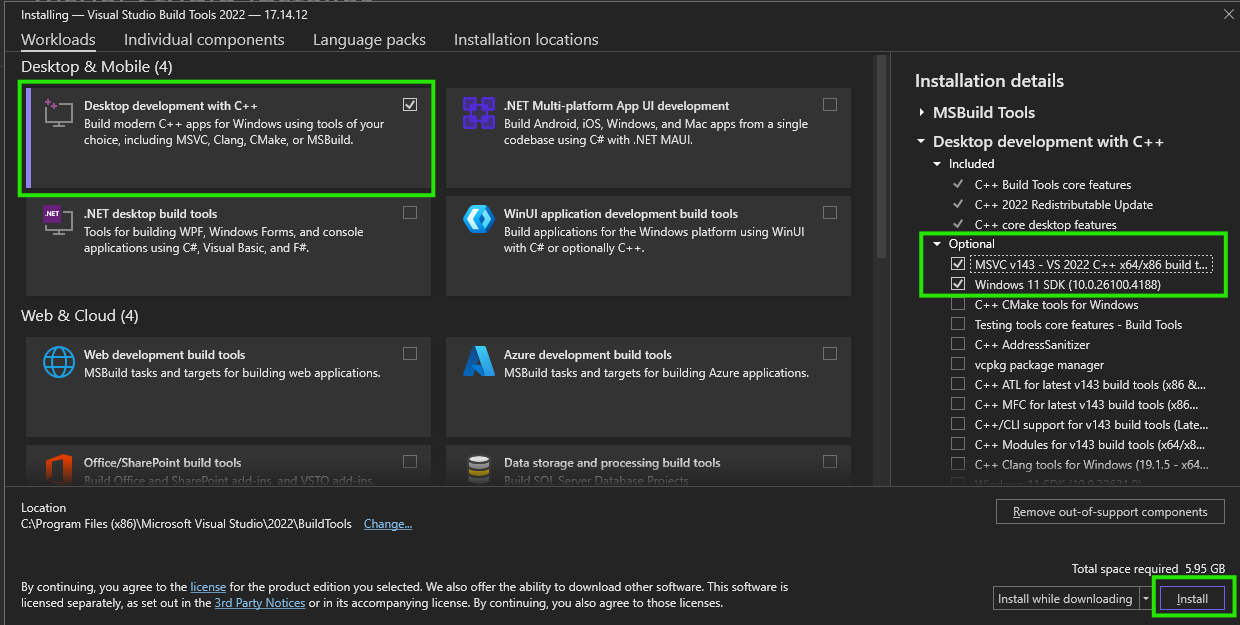
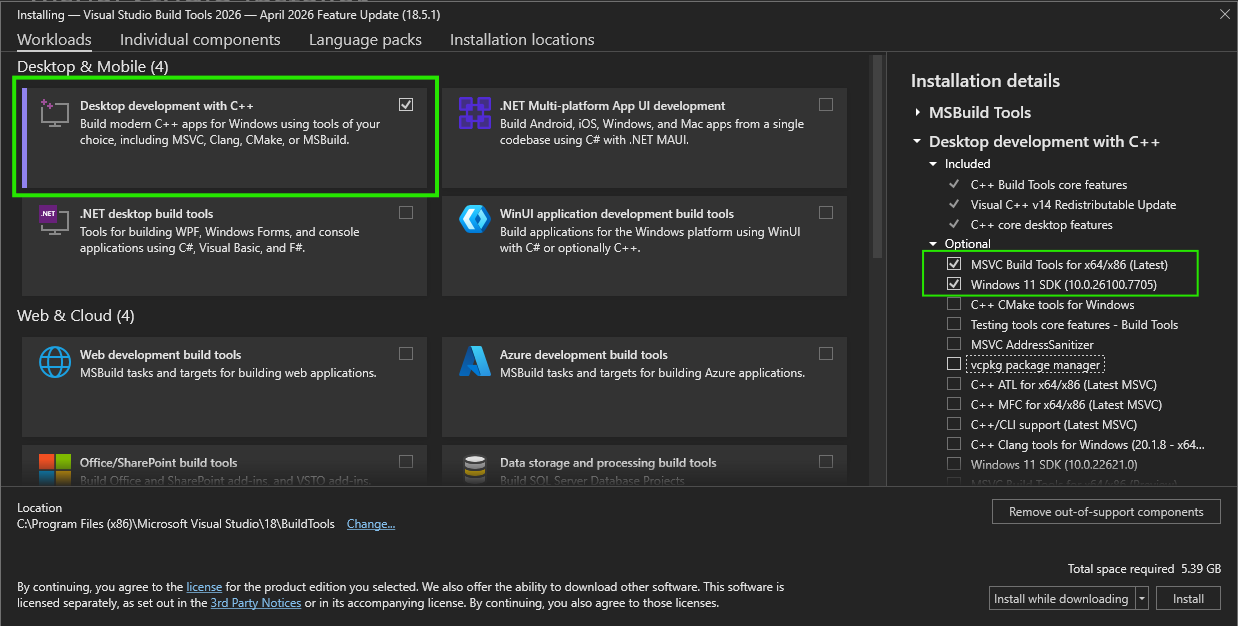
Update readme with Visual Studio 2026 installation instructions

diff --git a/readme.md b/readme.md
@@ -60,14 +60,17 @@ sudo apt install build-essentials
 
 For Windows, we will install the native `msvc` C/C++ compiler.
 
-* Go to the [Visual Studios downloads page](https://visualstudio.microsoft.com/downloads/#build-tools-for-visual-studio-2022)
-* Download ["Build Tools for Visual Studio 2022"](https://aka.ms/vs/17/release/vs_BuildTools.exe)
-* Run `vs_BuildTools.exe`
-* Under the "Workloads" tab, select "Desktop development with C++"
+* Go to the [Visual Studios downloads page](https://visualstudio.microsoft.com/downloads/) and scroll down to the bottom to the "All Downloads" section.
+  ![alt text](docs/images/build-tools.png)
+* Download ["Build Tools for Visual Studio 2026"](https://aka.ms/vs/stable/vs_BuildTools.exe).
+* Run `vs_BuildTools.exe`.
+* Click "Select workloads and components manually".
+  ![alt text](docs/images/select-components-manually.png)
+* Under the "Workloads" tab, select "Desktop development with C++".
   ![alt text](docs/images/vs-install.png)
-* Click `Install`
-* Search for `Developer PowerShell for VS 2022` and run it
-* In PowerShell, change the directory to where you downloaded Nando Lang
+* Click `Install`.
+* In the Windows start menu or search bar, search for `Developer PowerShell for VS 2026` and run it.
+* In PowerShell, change the directory to where you downloaded Nando Lang.
   ```
   cd <path-to-nando-lang>
   ```
@@ -92,7 +95,7 @@ First, determine the terminal program to use.
 * macOS: `terminal`
 * Linux: `konsole`
   * (If using WSL, you will already be using a terminal program.)
-* Windows: Developer PowerShell for VS 2022
+* Windows: Developer PowerShell for VS 2026
   * (You must use a "Developer" version of PowerShell, or else `msvc` will
     not be available.)
 
@@ -199,13 +202,6 @@ Pointers
 
 * [Watch this 3-minute pointers explanation](https://www.boot.dev/lessons/f6b606aa-cca7-4043-9689-6d72117a69ca)
 
-
 En espanol:
 
 * [Punteros en C](https://www.youtube.com/watch?v=y3K3jb3wv2I)
-* []()
-* []()
-* []()
-* []()
-
-
